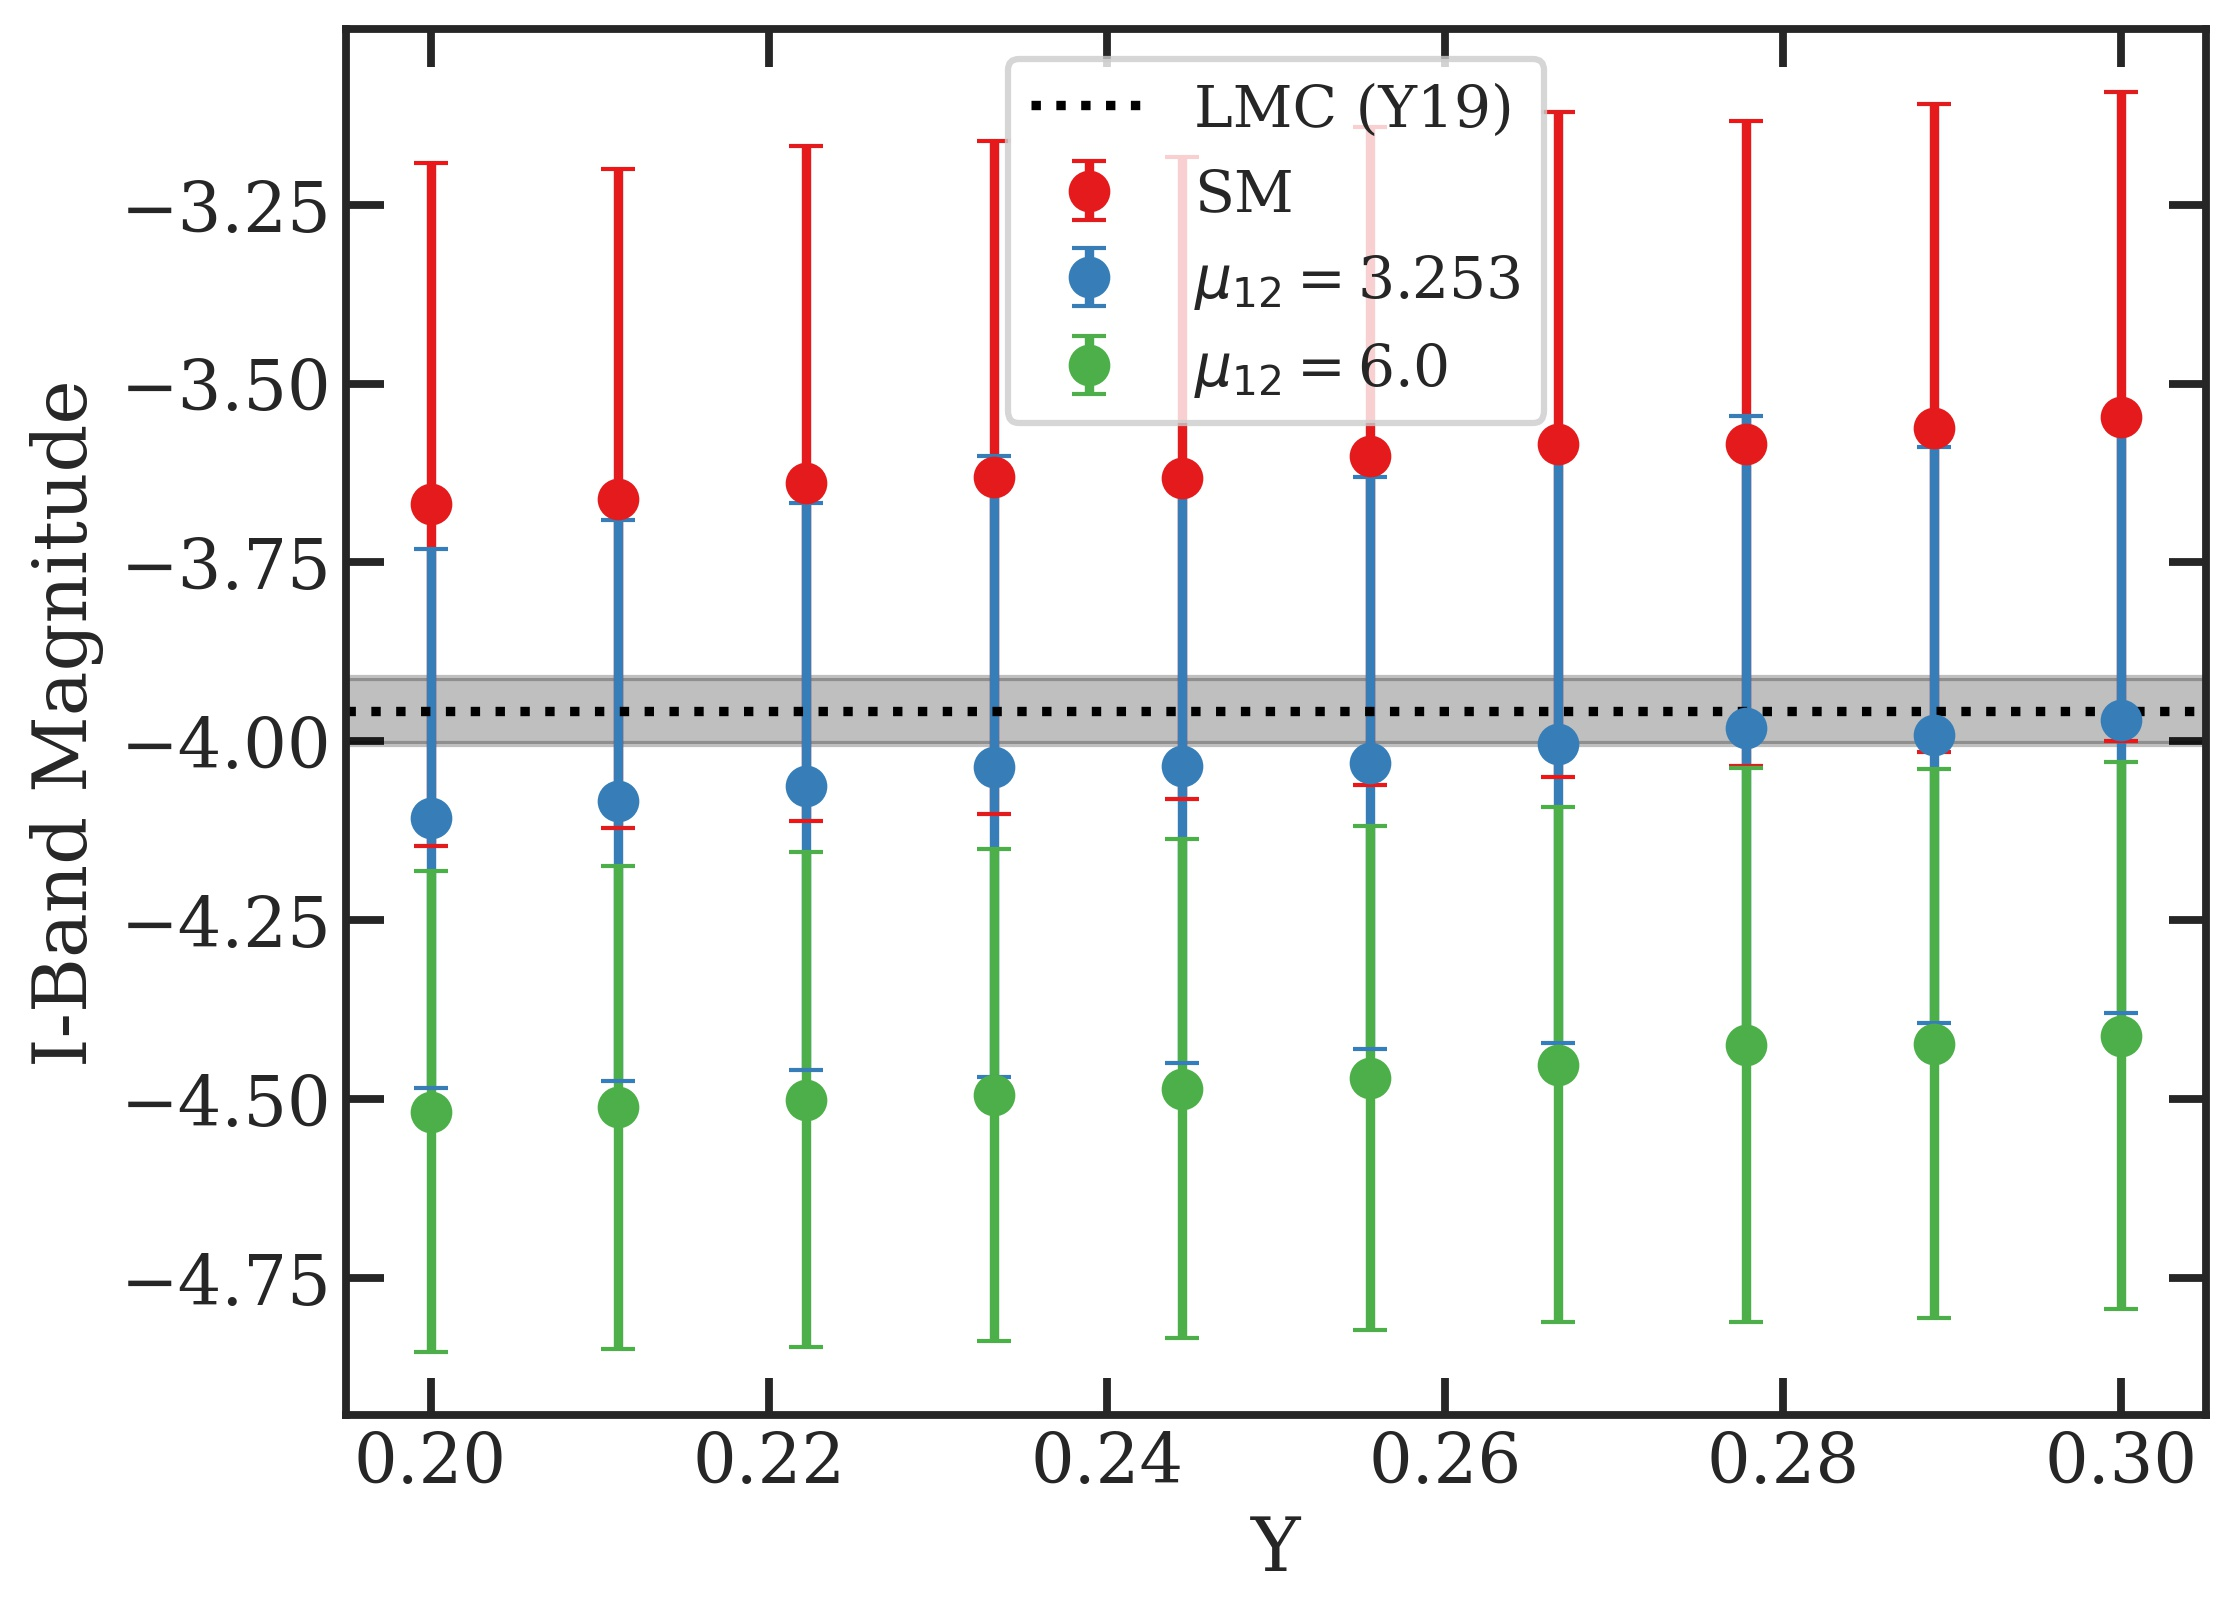
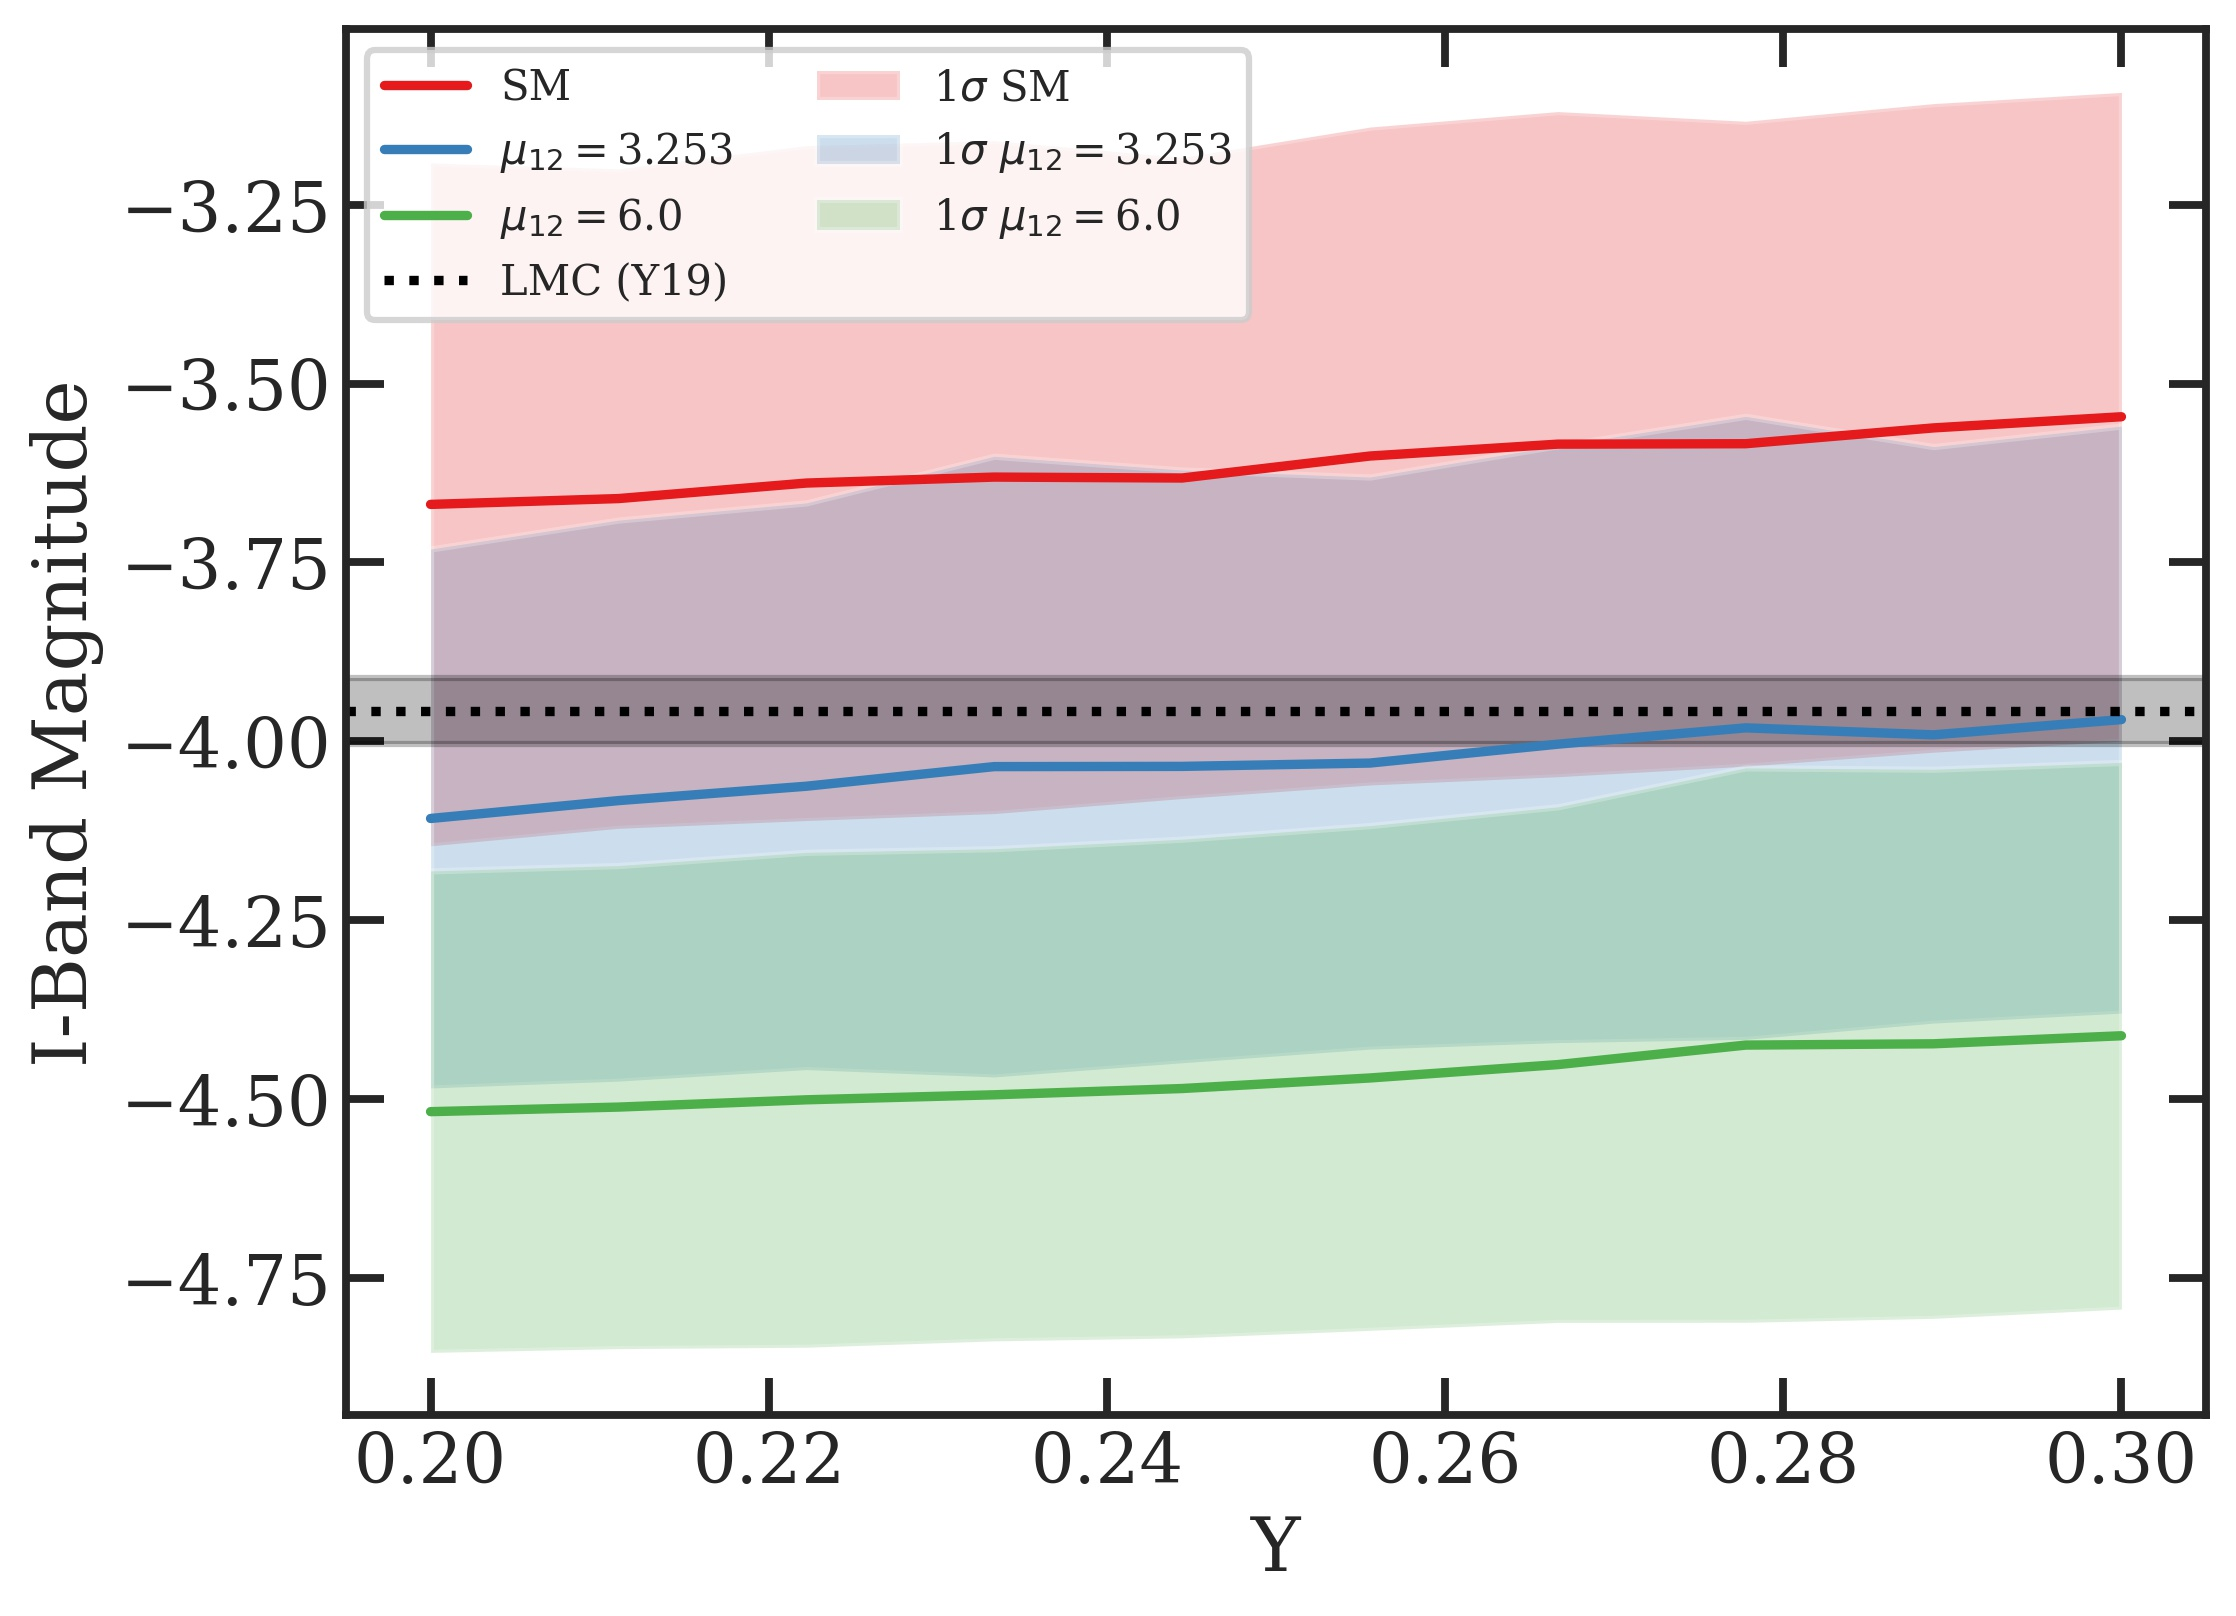
update binned plots

diff --git a/analysis/output_analysis/genPlots.py b/analysis/output_analysis/genPlots.py
@@ -41,8 +41,13 @@ def plotMI(mags):
     fig, ax = plt.subplots(1, figsize=(8,6))
     group = magsGood.groupby(magsGood.mu).mean().reset_index()
     std = magsGood.groupby(magsGood.mu).std()
+
+    x = group.mu.to_numpy()
+    y = group.M_I.to_numpy()
+    err = std.M_I.to_numpy()
     
-    ax.errorbar(group.mu, group.M_I, yerr=std.M_I, fmt='o', label=r'Average M$_I$', capsize=4)
+    ax.plot(x, y, '-', label=r'Average M$_I$')
+    ax.fill_between(x, y-err, y+err, label=r'1$\sigma$ M$_I$', alpha=0.25)
     #ax.errorbar(magsGood.mu, magsGood.M_I, yerr=magsGood.M_I_err, fmt='.', label=r'M$_I$')
 
     xmin, xmax = ax.get_xlim()
@@ -62,7 +67,7 @@ def plotMI(mags):
     ax.set_ylabel('I-Band Magnitude')
     #ax.set_xscale('log')
     ax.set_xlim(xmin, xmax+0.5)
-    ax.legend(prop={'size': 14})
+    ax.legend(prop={'size': 10}, loc='best')
     fig.savefig('mu12_vs_MI.jpeg', transparent=False,
                 bbox_inches='tight')
 
@@ -130,10 +135,11 @@ def Iband_vs_binned(df):
     labels = [r'Mass [M$_\odot$]', 'Y', 'Z']
     keys = ['mass', 'y', 'z']
     tols = [0, 0, 0.01]
+    locs = ['upper left', 'upper left', 'best']
     allMus = np.sort(df.mu.unique())
     mus = [allMus[1], allMus[-10], allMus[-1]]
 
-    for key, label, tol in zip(keys, labels, tols):
+    for key, label, tol, loc in zip(keys, labels, tols, locs):
 
         fig, ax = plt.subplots(1, figsize=(8,6))
     
@@ -144,12 +150,20 @@ def Iband_vs_binned(df):
             group = mags.groupby([key]).mean().reset_index()
             std = mags.groupby([key]).std().reset_index()
 
+            
             if mu == mus[0]:
                 cap = 'SM'
             else:
                 cap = r'$\mu_{12}=$'+str(round(mu, 3))
             
-            ax.errorbar(group[key], group.M_I, yerr=std.M_I, fmt='o', capsize=4, label=cap)
+            x = group[key].to_numpy()
+            y = group.M_I.to_numpy()
+            err = std.M_I.to_numpy()
+                
+            ax.plot(x, y, '-', label=cap)
+            ax.fill_between(x, y-err, y+err, label=r'1$\sigma$ {}'.format(cap), alpha=0.25)
+
+            #ax.errorbar(group[key], group.M_I, yerr=std.M_I, fmt='o', capsize=4, label=cap)
 
         # Plot observational values
         a = 0.25
@@ -167,7 +181,7 @@ def Iband_vs_binned(df):
         
         ax.set_xlabel(label)
         ax.set_ylabel('I-Band Magnitude')
-        ax.legend(prop={'size': 14}, loc='best')
+        ax.legend(prop={'size': 10}, loc=loc, ncol=2)
         if key == 'z':
             ax.set_xscale('log')
         ax.set_xlim(xmin, xmax+tol)
